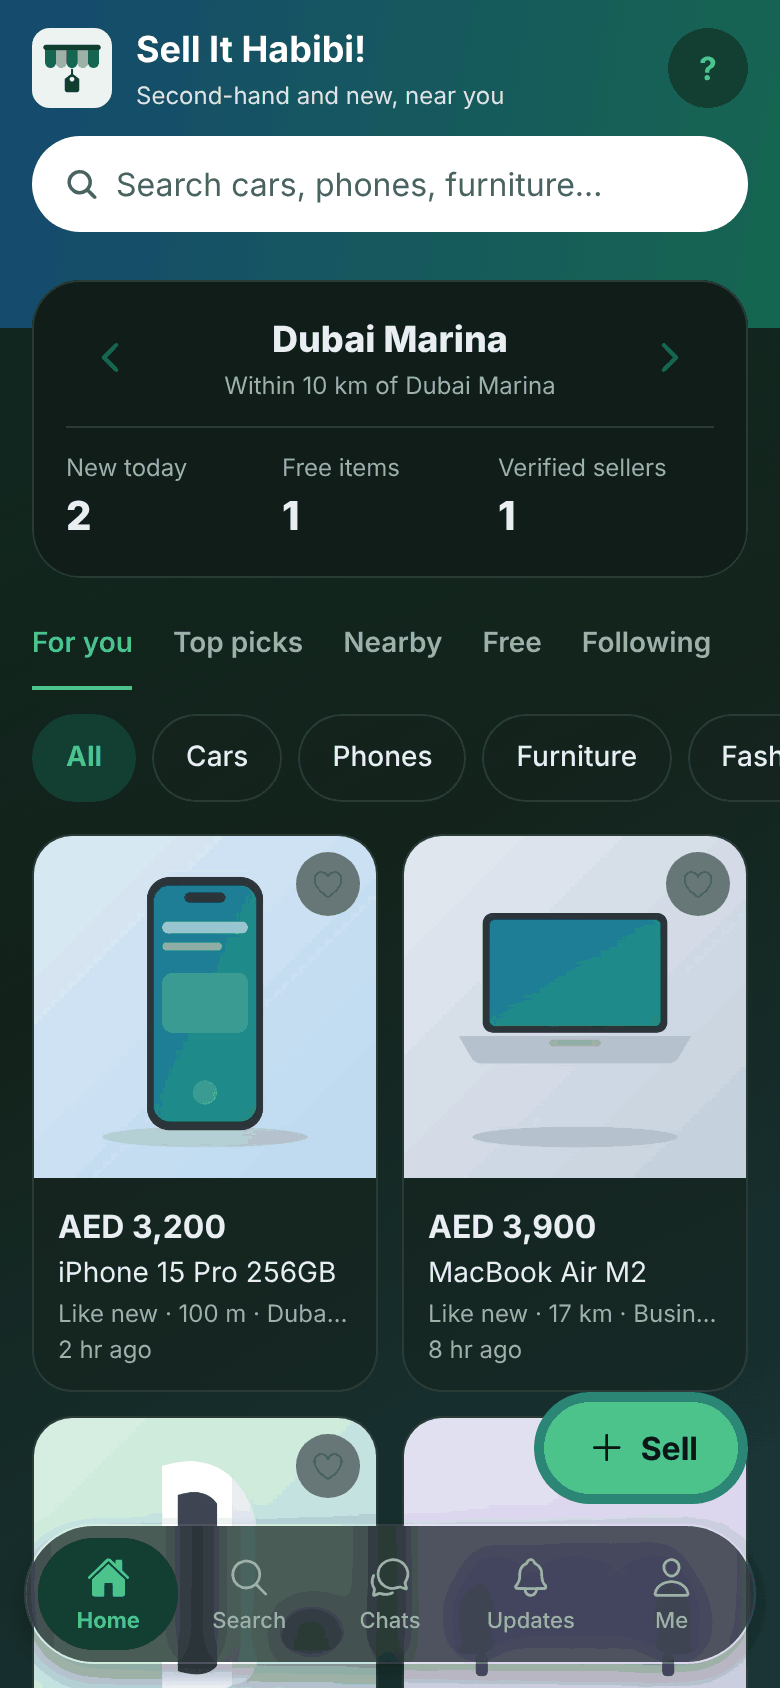
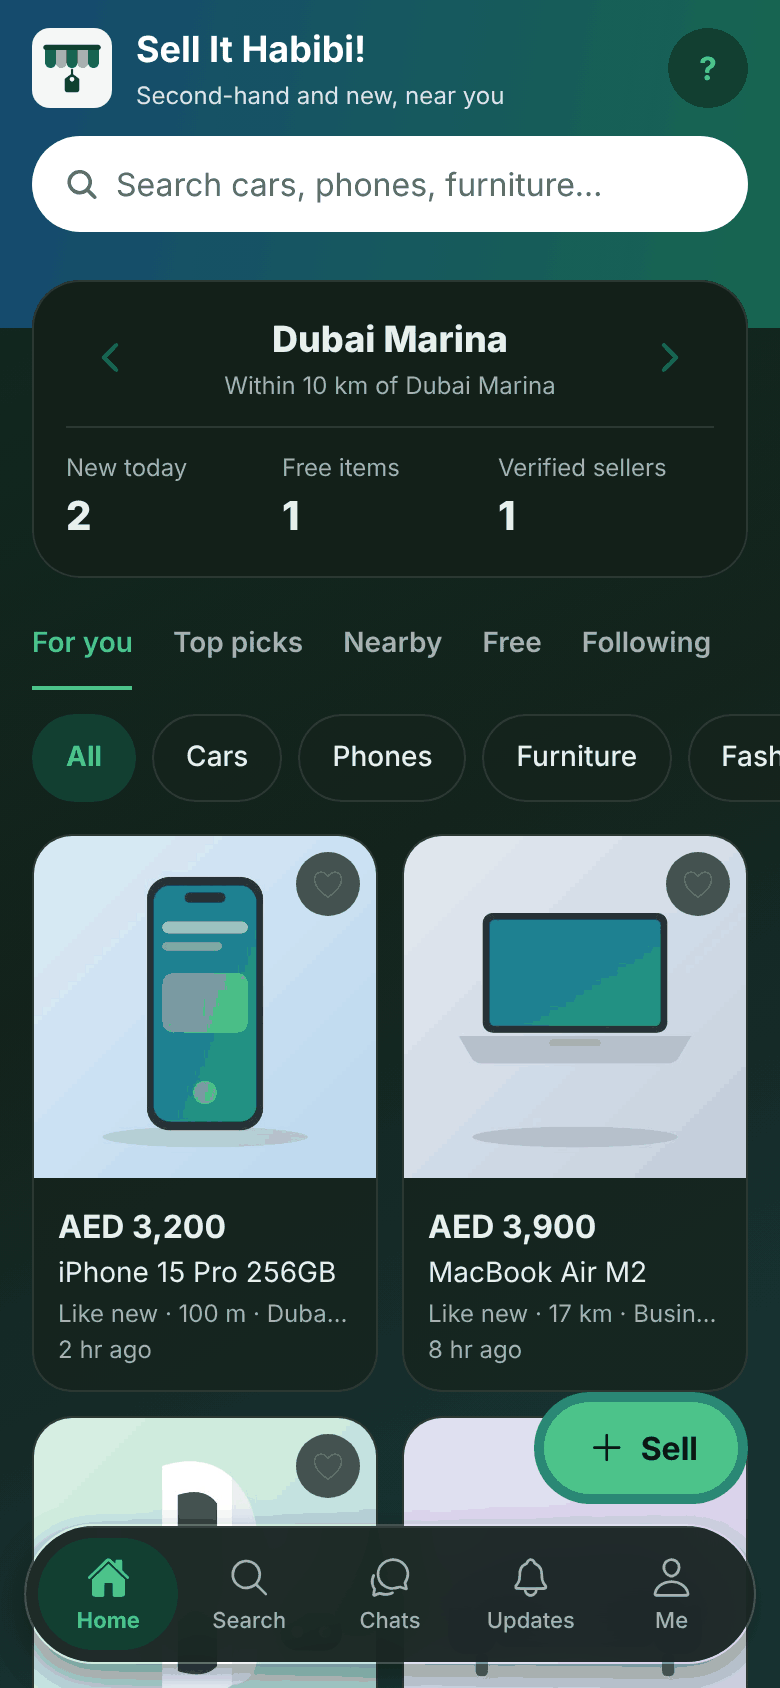
Smoked-glass frost: heavier blur and tint, solid-enough cards, web sheet colour variables; refreshed screenshots
Claude-Session: https://claude.ai/code/session_01Uz4Rt3sdvRf6DwBthvUspD

diff --git a/components/ui/frost.tsx b/components/ui/frost.tsx
@@ -1,21 +1,39 @@
 import { BlurView } from 'expo-blur';
 import type { ReactNode } from 'react';
-import { StyleSheet, View, type StyleProp, type ViewStyle } from 'react-native';
+import { Platform, StyleSheet, View, type StyleProp, type ViewStyle } from 'react-native';
 
+import { activePalette } from '@/constants/palettes';
 import { useIsDark } from '@/hooks/use-is-dark';
 import { usePrefs } from '@/providers/prefs-provider';
 
-type Props = { children: ReactNode; className?: string; style?: StyleProp<ViewStyle>; intensity?: number };
+type Props = {
+  children: ReactNode;
+  className?: string;
+  style?: StyleProp<ViewStyle>;
+  /** Blur strength, 1 to 100. */
+  intensity?: number;
+  /** How much of the tint covers the blur (0 to 1). The bar uses a light cover; sheets full of text use a heavy one. */
+  cover?: number;
+};
+
+const rgba = (hex: string, a: number) => {
+  const n = parseInt(hex.slice(1), 16);
+  return `rgba(${n >> 16},${(n >> 8) & 255},${n & 255},${a})`;
+};
+
+// Android only blurs cheaply (a hardware RenderEffect) from Android 12; older phones get a more solid tint instead.
+const CAN_BLUR = Platform.OS !== 'android' || (typeof Platform.Version === 'number' && Platform.Version >= 31);
 
 /**
- * Floating chrome (tab bar, pinned footers, sheets). Frosted look: the content behind it shows through, blurred,
- * under a translucent tint and a hairline edge. Classic look: a flat solid surface with a plain border.
+ * Floating chrome (tab bar, pinned footers, sheets). Frosted look: what is behind it is strongly blurred and darkened
+ * under a mostly opaque tint, so it reads as a smoked-glass panel and text on it stays legible. Classic look: a flat
+ * solid surface with a plain border. Blur is used only here, never on list items, to keep scrolling smooth.
  * Callers supply shape (rounded-*) and padding.
  */
-export function Frost({ children, className = '', style, intensity = 40 }: Props) {
-  const { look } = usePrefs();
+export function Frost({ children, className = '', style, intensity = 90, cover = 0.78 }: Props) {
+  const { look, appearance } = usePrefs();
   const dark = useIsDark();
-  const shadow = { shadowColor: '#000', shadowOpacity: dark ? 0.35 : 0.14, shadowRadius: 14, shadowOffset: { width: 0, height: 6 }, elevation: 6 };
+  const shadow = { shadowColor: '#000', shadowOpacity: dark ? 0.4 : 0.16, shadowRadius: 16, shadowOffset: { width: 0, height: 6 }, elevation: 6 };
 
   if (look !== 'frosted') {
     return (
@@ -24,10 +42,19 @@ export function Frost({ children, className = '', style, intensity = 40 }: Props
       </View>
     );
   }
+
+  const n = activePalette().neutrals;
+  const base = appearance === 'black' ? '#141414' : dark ? n.surface[1] : n.surface[0];
+  // Without a real blur behind it, the tint has to do more of the work.
+  const alpha = CAN_BLUR ? cover : Math.max(cover, 0.94);
   return (
-    <View className={`overflow-hidden border ${dark ? 'border-white/10' : 'border-white/70'} ${className}`} style={[shadow, style]}>
-      <BlurView pointerEvents="none" intensity={intensity} tint={dark ? 'dark' : 'light'} blurMethod="dimezisBlurViewSdk31Plus" style={StyleSheet.absoluteFill} />
-      <View pointerEvents="none" className="bg-surface dark:bg-surface-dark" style={StyleSheet.absoluteFill} />
+    <View className={`overflow-hidden border ${dark ? 'border-white/15' : 'border-white/80'} ${className}`} style={[shadow, style]}>
+      {CAN_BLUR ? (
+        <BlurView pointerEvents="none" intensity={intensity} tint={dark ? 'dark' : 'light'} blurMethod="dimezisBlurViewSdk31Plus" style={StyleSheet.absoluteFill} />
+      ) : null}
+      <View pointerEvents="none" style={[StyleSheet.absoluteFill, { backgroundColor: rgba(base, alpha) }]} />
+      {/* soft highlight along the top edge, like light catching glass */}
+      <View pointerEvents="none" style={{ position: 'absolute', top: 0, left: 0, right: 0, height: 1, backgroundColor: dark ? 'rgba(255,255,255,0.12)' : 'rgba(255,255,255,0.9)' }} />
       {children}
     </View>
   );

diff --git a/constants/palettes.ts b/constants/palettes.ts
@@ -69,14 +69,14 @@ export function themeVars(id: PaletteId, look: 'frosted' | 'classic', black: boo
   const n = p.neutrals;
   const frosted = look === 'frosted';
   const darkCanvas = black ? '#000000' : n.canvas[1];
-  const darkSurface = black ? (frosted ? 'rgba(255,255,255,0.08)' : '#0C0C0C') : frosted ? rgba(n.surface[1], 0.55) : n.surface[1];
+  const darkSurface = black ? (frosted ? 'rgba(255,255,255,0.1)' : '#0C0C0C') : frosted ? rgba(n.surface[1], 0.74) : n.surface[1];
   const darkLine = black ? (frosted ? 'rgba(255,255,255,0.14)' : '#1F1F1F') : frosted ? 'rgba(255,255,255,0.1)' : n.line[1];
   return {
     '--canvas': n.canvas[0],
     '--canvas-dark': darkCanvas,
-    '--surface': frosted ? rgba(n.surface[0], 0.62) : n.surface[0],
+    '--surface': frosted ? rgba(n.surface[0], 0.78) : n.surface[0],
     '--surface-dark': darkSurface,
-    '--line': frosted ? 'rgba(255,255,255,0.8)' : n.line[0],
+    '--line': frosted ? 'rgba(15,31,26,0.1)' : n.line[0],
     '--line-dark': darkLine,
     '--brand-50': p.brand[50],
     '--brand-100': p.brand[100],

diff --git a/app/_layout.tsx b/app/_layout.tsx
@@ -100,9 +100,15 @@ function LookRoot({ children }: { children: React.ReactNode }) {
   const black = appearance === 'black';
   const scheme = black ? 'dark' : Platform.OS === 'web' && appearance === 'system' ? (system === 'dark' ? 'dark' : 'light') : appearance;
   useEffect(() => setColorScheme(scheme), [scheme, setColorScheme]);
+  const theme = themeVars(palette, look, black);
+  // On web, sheets render outside this view in the page, so the colour variables must also sit on the page itself.
+  useEffect(() => {
+    if (Platform.OS !== 'web' || typeof document === 'undefined') return;
+    for (const [k, v] of Object.entries(theme)) document.documentElement.style.setProperty(k, v);
+  }, [theme]);
   // Keyed by palette so icons that read the palette from code repaint too.
   return (
-    <View key={`${palette}-${black}`} style={[{ flex: 1 }, vars(themeVars(palette, look, black))]}>
+    <View key={`${palette}-${black}`} style={[{ flex: 1 }, vars(theme)]}>
       {children}
     </View>
   );

diff --git a/components/ui/sheet.tsx b/components/ui/sheet.tsx
@@ -14,7 +14,7 @@ export function Sheet({ visible, title, onClose, children }: Props) {
   return (
     <Modal visible={visible} transparent animationType="slide" onRequestClose={onClose} statusBarTranslucent>
       <Pressable accessibilityLabel={t('common.cancel')} onPress={onClose} className="flex-1 bg-black/50" />
-      <Frost className="max-h-[85%] w-full self-center rounded-t-3xl border-b-0 px-5 pt-5" intensity={70} style={{ paddingBottom: insets.bottom + 16, maxWidth: 560 }}>
+      <Frost className="max-h-[85%] w-full self-center rounded-t-3xl border-b-0 px-5 pt-5" intensity={100} cover={0.93} style={{ paddingBottom: insets.bottom + 16, maxWidth: 560 }}>
         <Text accessibilityRole="header" className="mb-3 text-xl font-bold text-ink dark:text-ink-dark">
           {title}
         </Text>

diff --git a/plan.md b/plan.md
@@ -211,6 +211,7 @@ Without payments in the app, this phase is limited to free features.
 - [x] Colour palettes (Forest, Ocean, Sunset, Royal) and Light / Dark / Match my phone, all in Settings and saved on the device. Default is to follow the phone's light/dark setting automatically, including while the app is open. Palettes live in `constants/palettes.ts`; adding one is one entry
 - [x] Home redesigned to the new mock: header with tagline and search pill, location card (city arrows, radius, New today / Free items / Verified sellers), then tabs
 - [x] Pure black appearance, and the page, card and divider colours now follow the palette (before, only accents did)
+- [x] Smoked-glass frost: the bar, form footers and sheets blur what is behind them strongly under a mostly opaque tint (like One UI's pill); cards are translucent but sturdier. Blur only on those three floating pieces (never list items); Android blurs from 12 (hardware effect), older phones get a more solid tint
 - [x] README screenshots (demo mode, web build, EN/AR, light/dark) in `docs/screenshots/`; demo listings now use illustrated photos
 - [ ] Store listings (ar/en), store screenshots from real devices, privacy policy, terms, data-safety forms. No in-app purchases of goods, which keeps store review simpler
 - [ ] Beta then soft launch in one country (UAE or KSA), then expand
